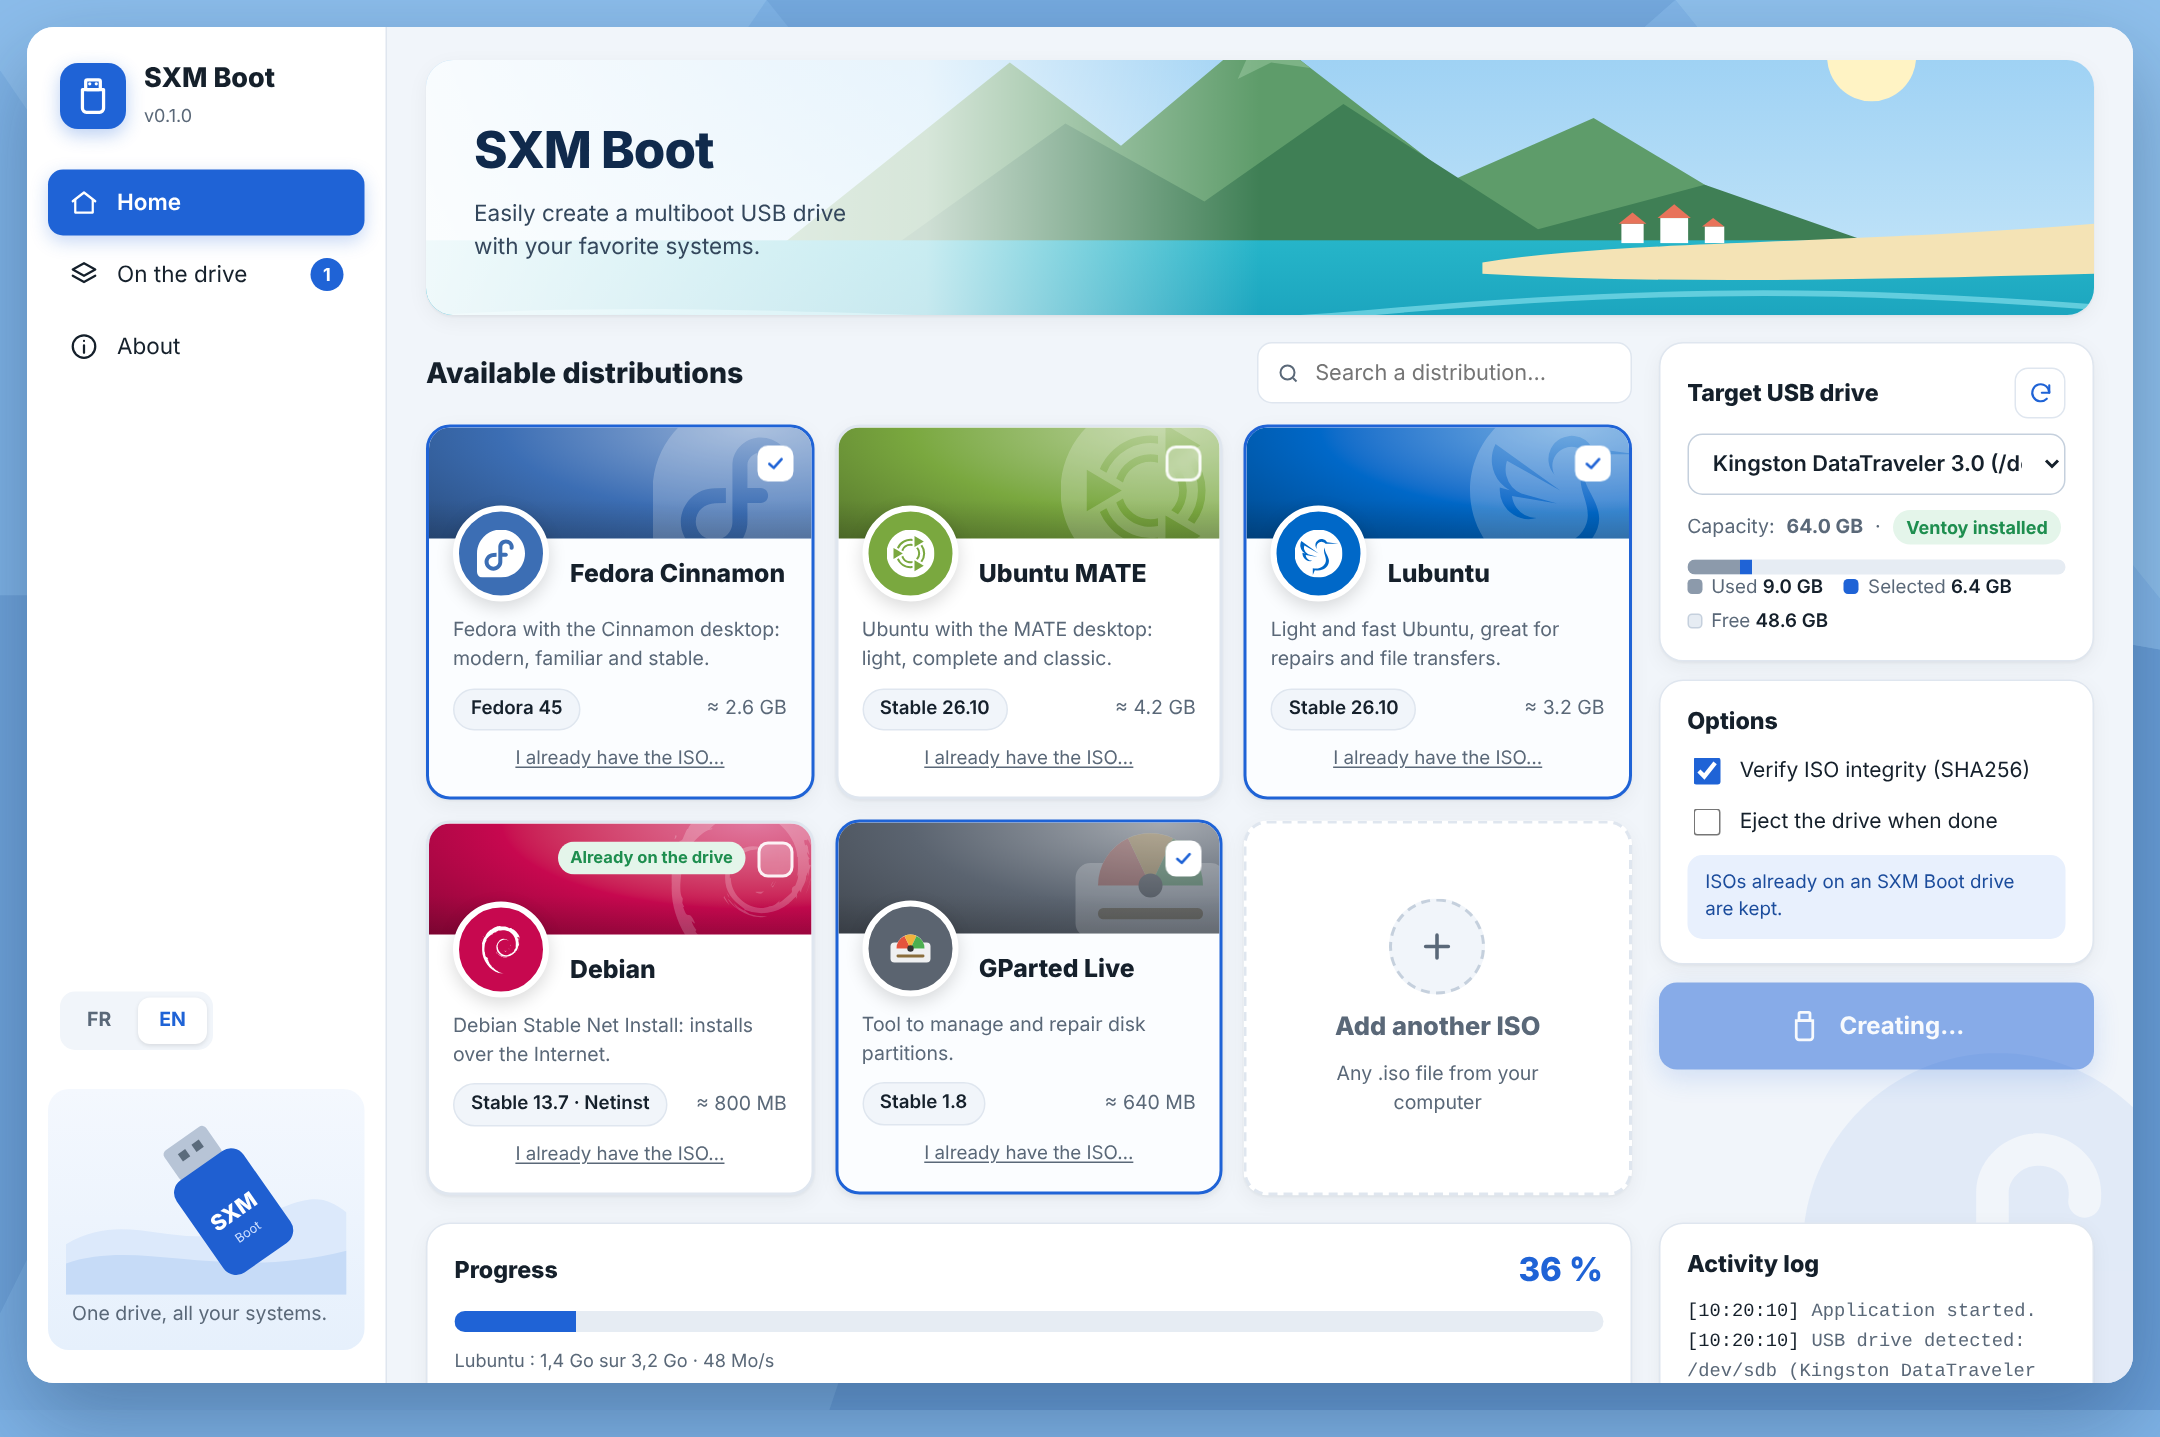
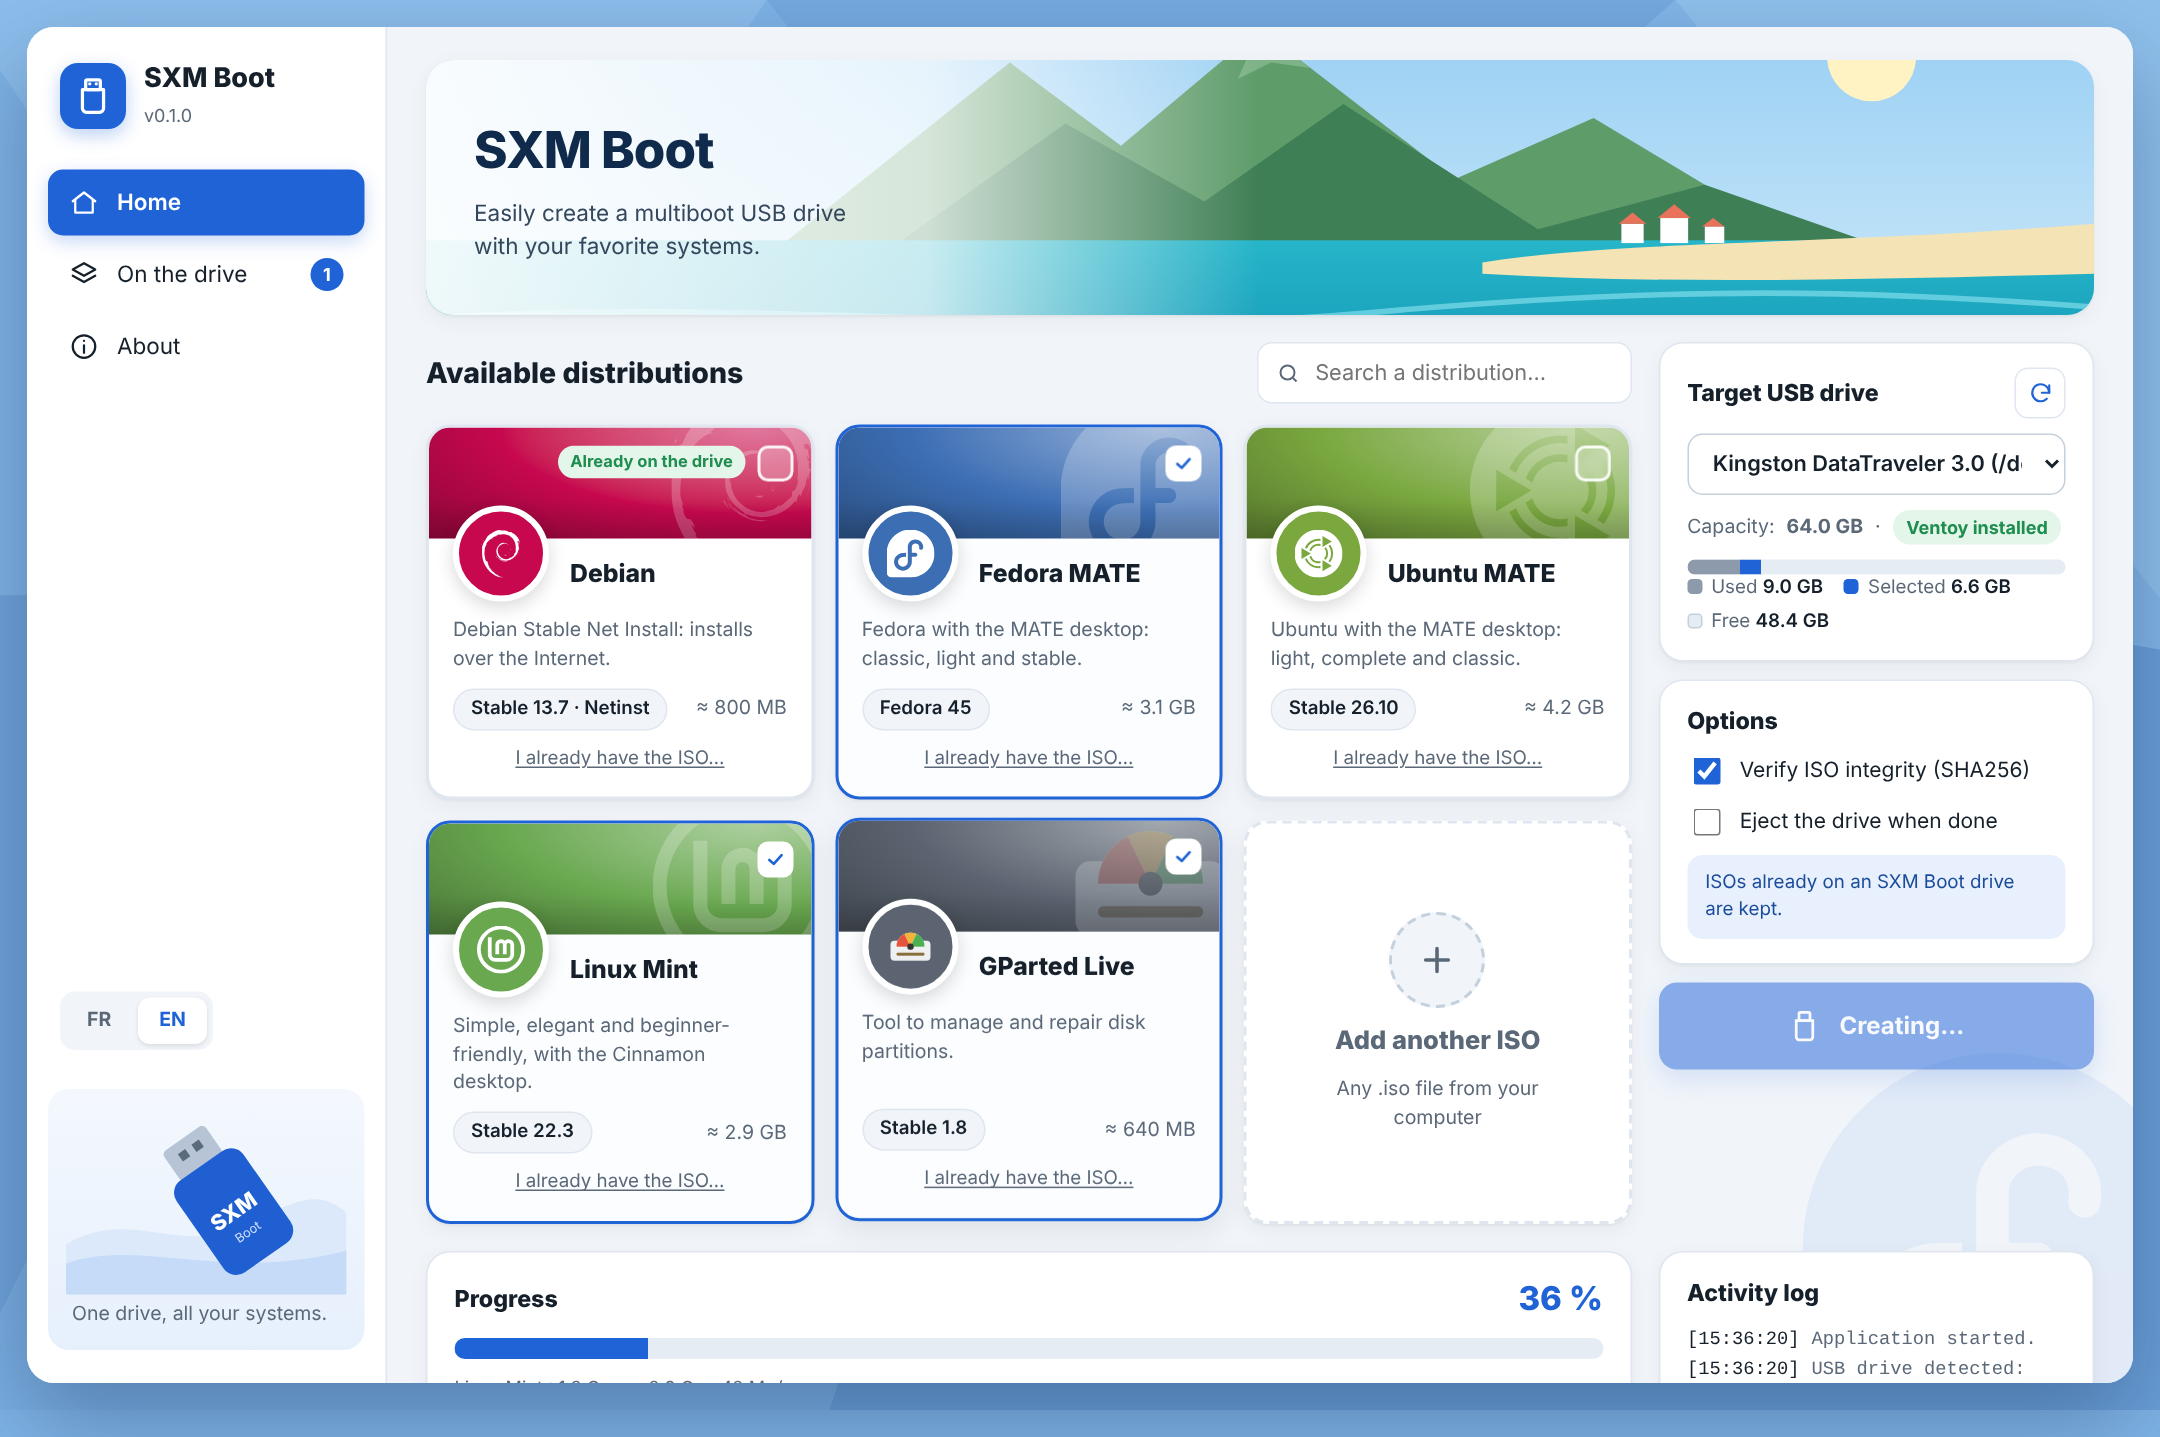
Catalogue : Debian, Fedora MATE 45, Ubuntu MATE, Linux Mint, GParted
Claude-Session: https://claude.ai/code/session_01Y3TV2ChADnVsz2gHioHwDi

diff --git a/ui/catalog.js b/ui/catalog.js
@@ -2,41 +2,26 @@
 // Catalogue : systèmes avec lien de téléchargement direct vérifié.
 // "sums" = fichier de sommes SHA256 publié à côté de l'ISO (vérification automatique).
 window.CATALOG = [
-  { id: 'cachyos', logo: 'img/cachyos.svg', color: '#1AA39A', name: 'CachyOS',
-    desc: 'N°1 sur DistroWatch : basée sur Arch, rapide et optimisée pour les PC récents.',
-    desc_en: '#1 on DistroWatch: Arch-based, fast and optimized for modern PCs.', version: 'Août 2026', size: 3.1e9,
-    url: 'https://cdn77.cachyos.org/ISO/desktop/260809/cachyos-desktop-linux-260809.iso',
-    sums: 'https://mirror.cachyos.org/ISO/desktop/260809/cachyos-desktop-linux-260809.iso.sha256' },
-  { id: 'mint', logo: 'img/linuxmint.svg', color: '#69A84F', name: 'Linux Mint',
-    desc: 'Simple, élégante et très facile pour débuter, avec le bureau Cinnamon.',
-    desc_en: 'Simple, elegant and beginner-friendly, with the Cinnamon desktop.', version: 'Stable 22.3', size: 2.9e9,
-    url: 'https://ftp.nl.freebsd.org/os/Linux/distr/linuxmint/iso/stable/22.3/linuxmint-22.3-cinnamon-64bit.iso',
-    sums: 'https://ftp.nl.freebsd.org/os/Linux/distr/linuxmint/iso/stable/22.3/sha256sum.txt' },
-  { id: 'mx', logo: 'img/mxlinux.svg', color: '#3B4250', name: 'MX Linux',
-    desc: 'Basée sur Debian, légère et stable, avec de nombreux outils pratiques.',
-    desc_en: 'Debian-based, light and stable, with many handy tools.', version: 'Stable 25.2 · Xfce', size: 2.9e9,
-    url: 'https://downloads.sourceforge.net/project/mx-linux/Final/Xfce/MX-25.2_Xfce_x64.iso',
-    sums: 'https://downloads.sourceforge.net/project/mx-linux/Final/Xfce/MX-25.2_Xfce_x64.iso.sha256' },
-  { id: 'fedora-cinnamon', logo: 'img/fedora.svg', color: '#3C6EB4', name: 'Fedora Cinnamon',
-    desc: 'Fedora avec le bureau Cinnamon : moderne, familier et stable.',
-    desc_en: 'Fedora with the Cinnamon desktop: modern, familiar and stable.', version: 'Fedora 45', size: 2.6e9,
-    url: 'https://download.fedoraproject.org/pub/fedora/linux/releases/45/Spins/x86_64/iso/Fedora-Cinnamon-Live-45-1.4.x86_64.iso',
+  { id: 'debian', logo: 'img/debian.svg', color: '#C7084F', name: 'Debian',
+    desc: 'Debian Stable en Net Install : installation via Internet.',
+    desc_en: 'Debian Stable Net Install: installs over the Internet.', version: 'Stable 13.7 · Netinst', size: 0.8e9,
+    url: 'https://debian.grena.ge/debian-cd/13.7.0/amd64/iso-cd/debian-13.7.0-amd64-netinst.iso',
+    sums: 'https://debian.grena.ge/debian-cd/13.7.0/amd64/iso-cd/SHA256SUMS' },
+  { id: 'fedora-mate', logo: 'img/fedora.svg', color: '#3C6EB4', name: 'Fedora MATE',
+    desc: 'Fedora avec le bureau MATE : classique, léger et stable.',
+    desc_en: 'Fedora with the MATE desktop: classic, light and stable.', version: 'Fedora 45', size: 3.1e9,
+    url: 'https://download.fedoraproject.org/pub/fedora/linux/releases/45/Spins/x86_64/iso/Fedora-MATE_Compiz-Live-45-1.4.x86_64.iso',
     sums: 'https://dl.fedoraproject.org/pub/fedora/linux/releases/45/Spins/x86_64/iso/Fedora-Spins-45-1.4-x86_64-CHECKSUM' },
   { id: 'ubuntu-mate', logo: 'img/ubuntumate.svg', color: '#7AA83F', name: 'Ubuntu MATE',
     desc: 'Ubuntu avec l\'environnement MATE : léger, complet et classique.',
     desc_en: 'Ubuntu with the MATE desktop: light, complete and classic.', version: 'Stable 26.10', size: 4.2e9,
     url: 'https://cdimage.ubuntu.com/ubuntu-mate/releases/26.10/release/ubuntu-mate-26.10-desktop-amd64.iso',
     sums: 'https://cdimage.ubuntu.com/ubuntu-mate/releases/26.10/release/SHA256SUMS' },
-  { id: 'lubuntu', logo: 'img/lubuntu.svg', color: '#0068C8', name: 'Lubuntu',
-    desc: 'Ubuntu léger et rapide, idéal pour dépanner et transférer des fichiers.',
-    desc_en: 'Light and fast Ubuntu, great for repairs and file transfers.', version: 'Stable 26.10', size: 3.2e9,
-    url: 'https://cdimage.ubuntu.com/lubuntu/releases/26.10/release/lubuntu-26.10-desktop-amd64.iso',
-    sums: 'https://cdimage.ubuntu.com/lubuntu/releases/26.10/release/SHA256SUMS' },
-  { id: 'debian', logo: 'img/debian.svg', color: '#C7084F', name: 'Debian',
-    desc: 'Debian Stable en Net Install : installation via Internet.',
-    desc_en: 'Debian Stable Net Install: installs over the Internet.', version: 'Stable 13.7 · Netinst', size: 0.8e9,
-    url: 'https://debian.grena.ge/debian-cd/13.7.0/amd64/iso-cd/debian-13.7.0-amd64-netinst.iso',
-    sums: 'https://debian.grena.ge/debian-cd/13.7.0/amd64/iso-cd/SHA256SUMS' },
+  { id: 'mint', logo: 'img/linuxmint.svg', color: '#69A84F', name: 'Linux Mint',
+    desc: 'Simple, élégante et très facile pour débuter, avec le bureau Cinnamon.',
+    desc_en: 'Simple, elegant and beginner-friendly, with the Cinnamon desktop.', version: 'Stable 22.3', size: 2.9e9,
+    url: 'https://ftp.nl.freebsd.org/os/Linux/distr/linuxmint/iso/stable/22.3/linuxmint-22.3-cinnamon-64bit.iso',
+    sums: 'https://ftp.nl.freebsd.org/os/Linux/distr/linuxmint/iso/stable/22.3/sha256sum.txt' },
   { id: 'gparted', logo: 'img/gparted.svg', color: '#5B6470', name: 'GParted Live',
     desc: 'Outil de gestion et de réparation des partitions de disque.',
     desc_en: 'Tool to manage and repair disk partitions.', version: 'Stable 1.8', size: 0.64e9,

diff --git a/README.md b/README.md
@@ -30,17 +30,12 @@ Ventoy est excellent, mais il faut trouver, télécharger et vérifier chaque IS
 
 ### Systèmes proposés
 
-Le top 5 de DistroWatch (6 derniers mois), plus une sélection pour le dépannage :
-
 | Système | Version | SHA256 |
 |---|---|---|
-| CachyOS | Août 2026 | ✓ |
-| Linux Mint Cinnamon | 22.3 | ✓ |
-| MX Linux Xfce | 25.2 | ✓ |
-| Fedora Cinnamon | 45 | ✓ |
-| Ubuntu MATE | 26.10 | ✓ |
-| Lubuntu | 26.10 | ✓ |
 | Debian (Net Install) | 13.7 | ✓ |
+| Fedora MATE | 45 | ✓ |
+| Ubuntu MATE | 26.10 | ✓ |
+| Linux Mint Cinnamon | 22.3 | ✓ |
 | GParted Live | 1.8 | — |
 
 ### Installation
